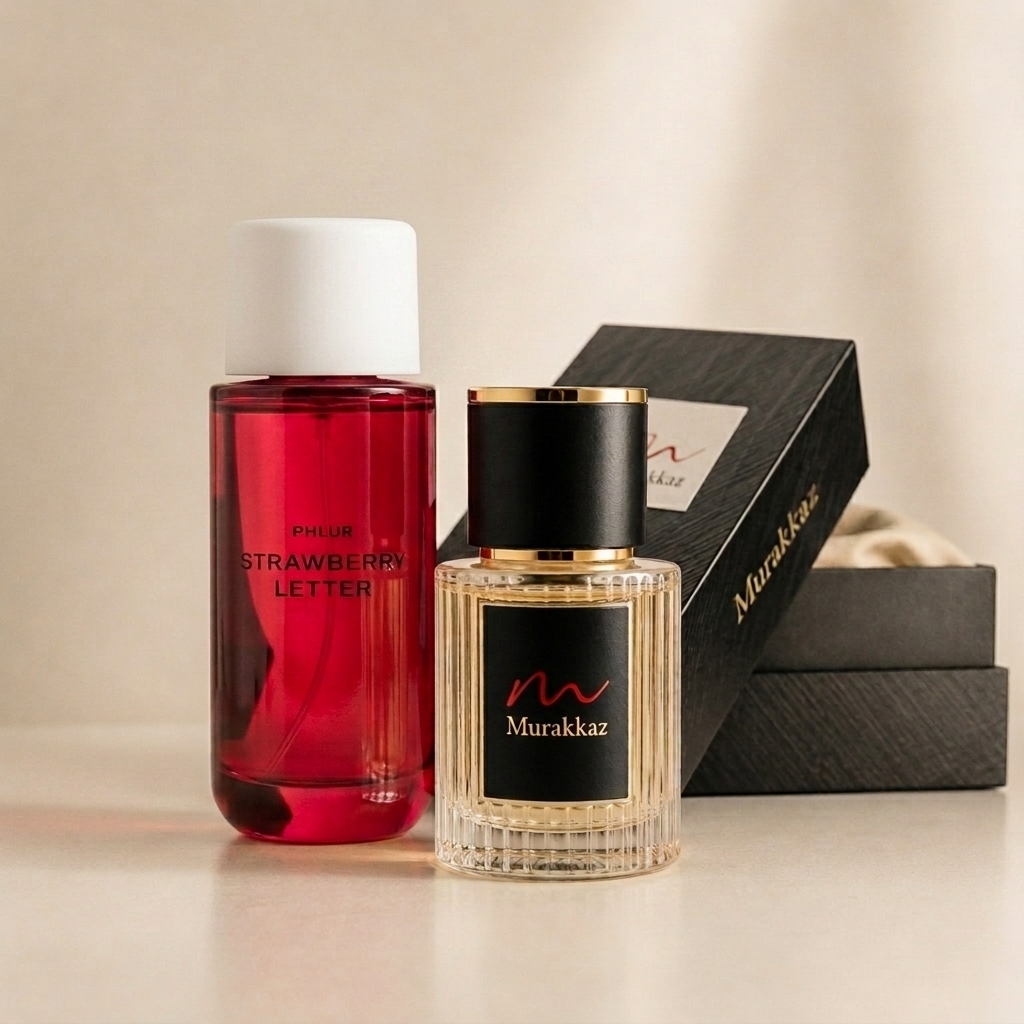
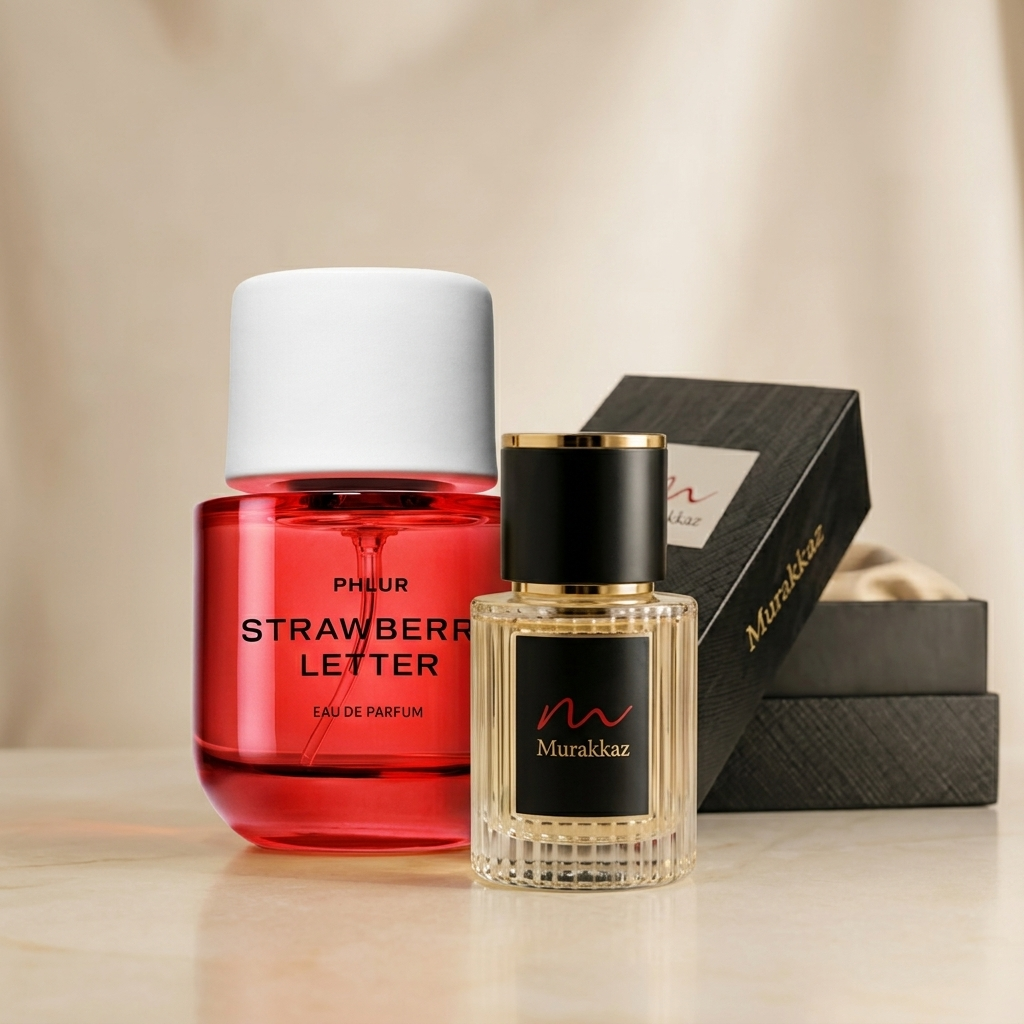
fix(catalog): update authentic Phlur Strawberry Letter master photo (v5)

diff --git a/App/src/app/data/products.ts b/App/src/app/data/products.ts
@@ -923,7 +923,7 @@ export const luxuryProducts: Product[] = [
     "priceVal": 300,
     "originalPriceVal": 400,
     "volume": "6ml - 50ml",
-    "image": "/images/products/strawberry_letter_v3.jpg",
+    "image": "/images/products/strawberry_letter_v5.jpg",
     "family": "GOURMAND",
     "gender": "WOMEN",
     "occasion": "Romantic & Daytime",
